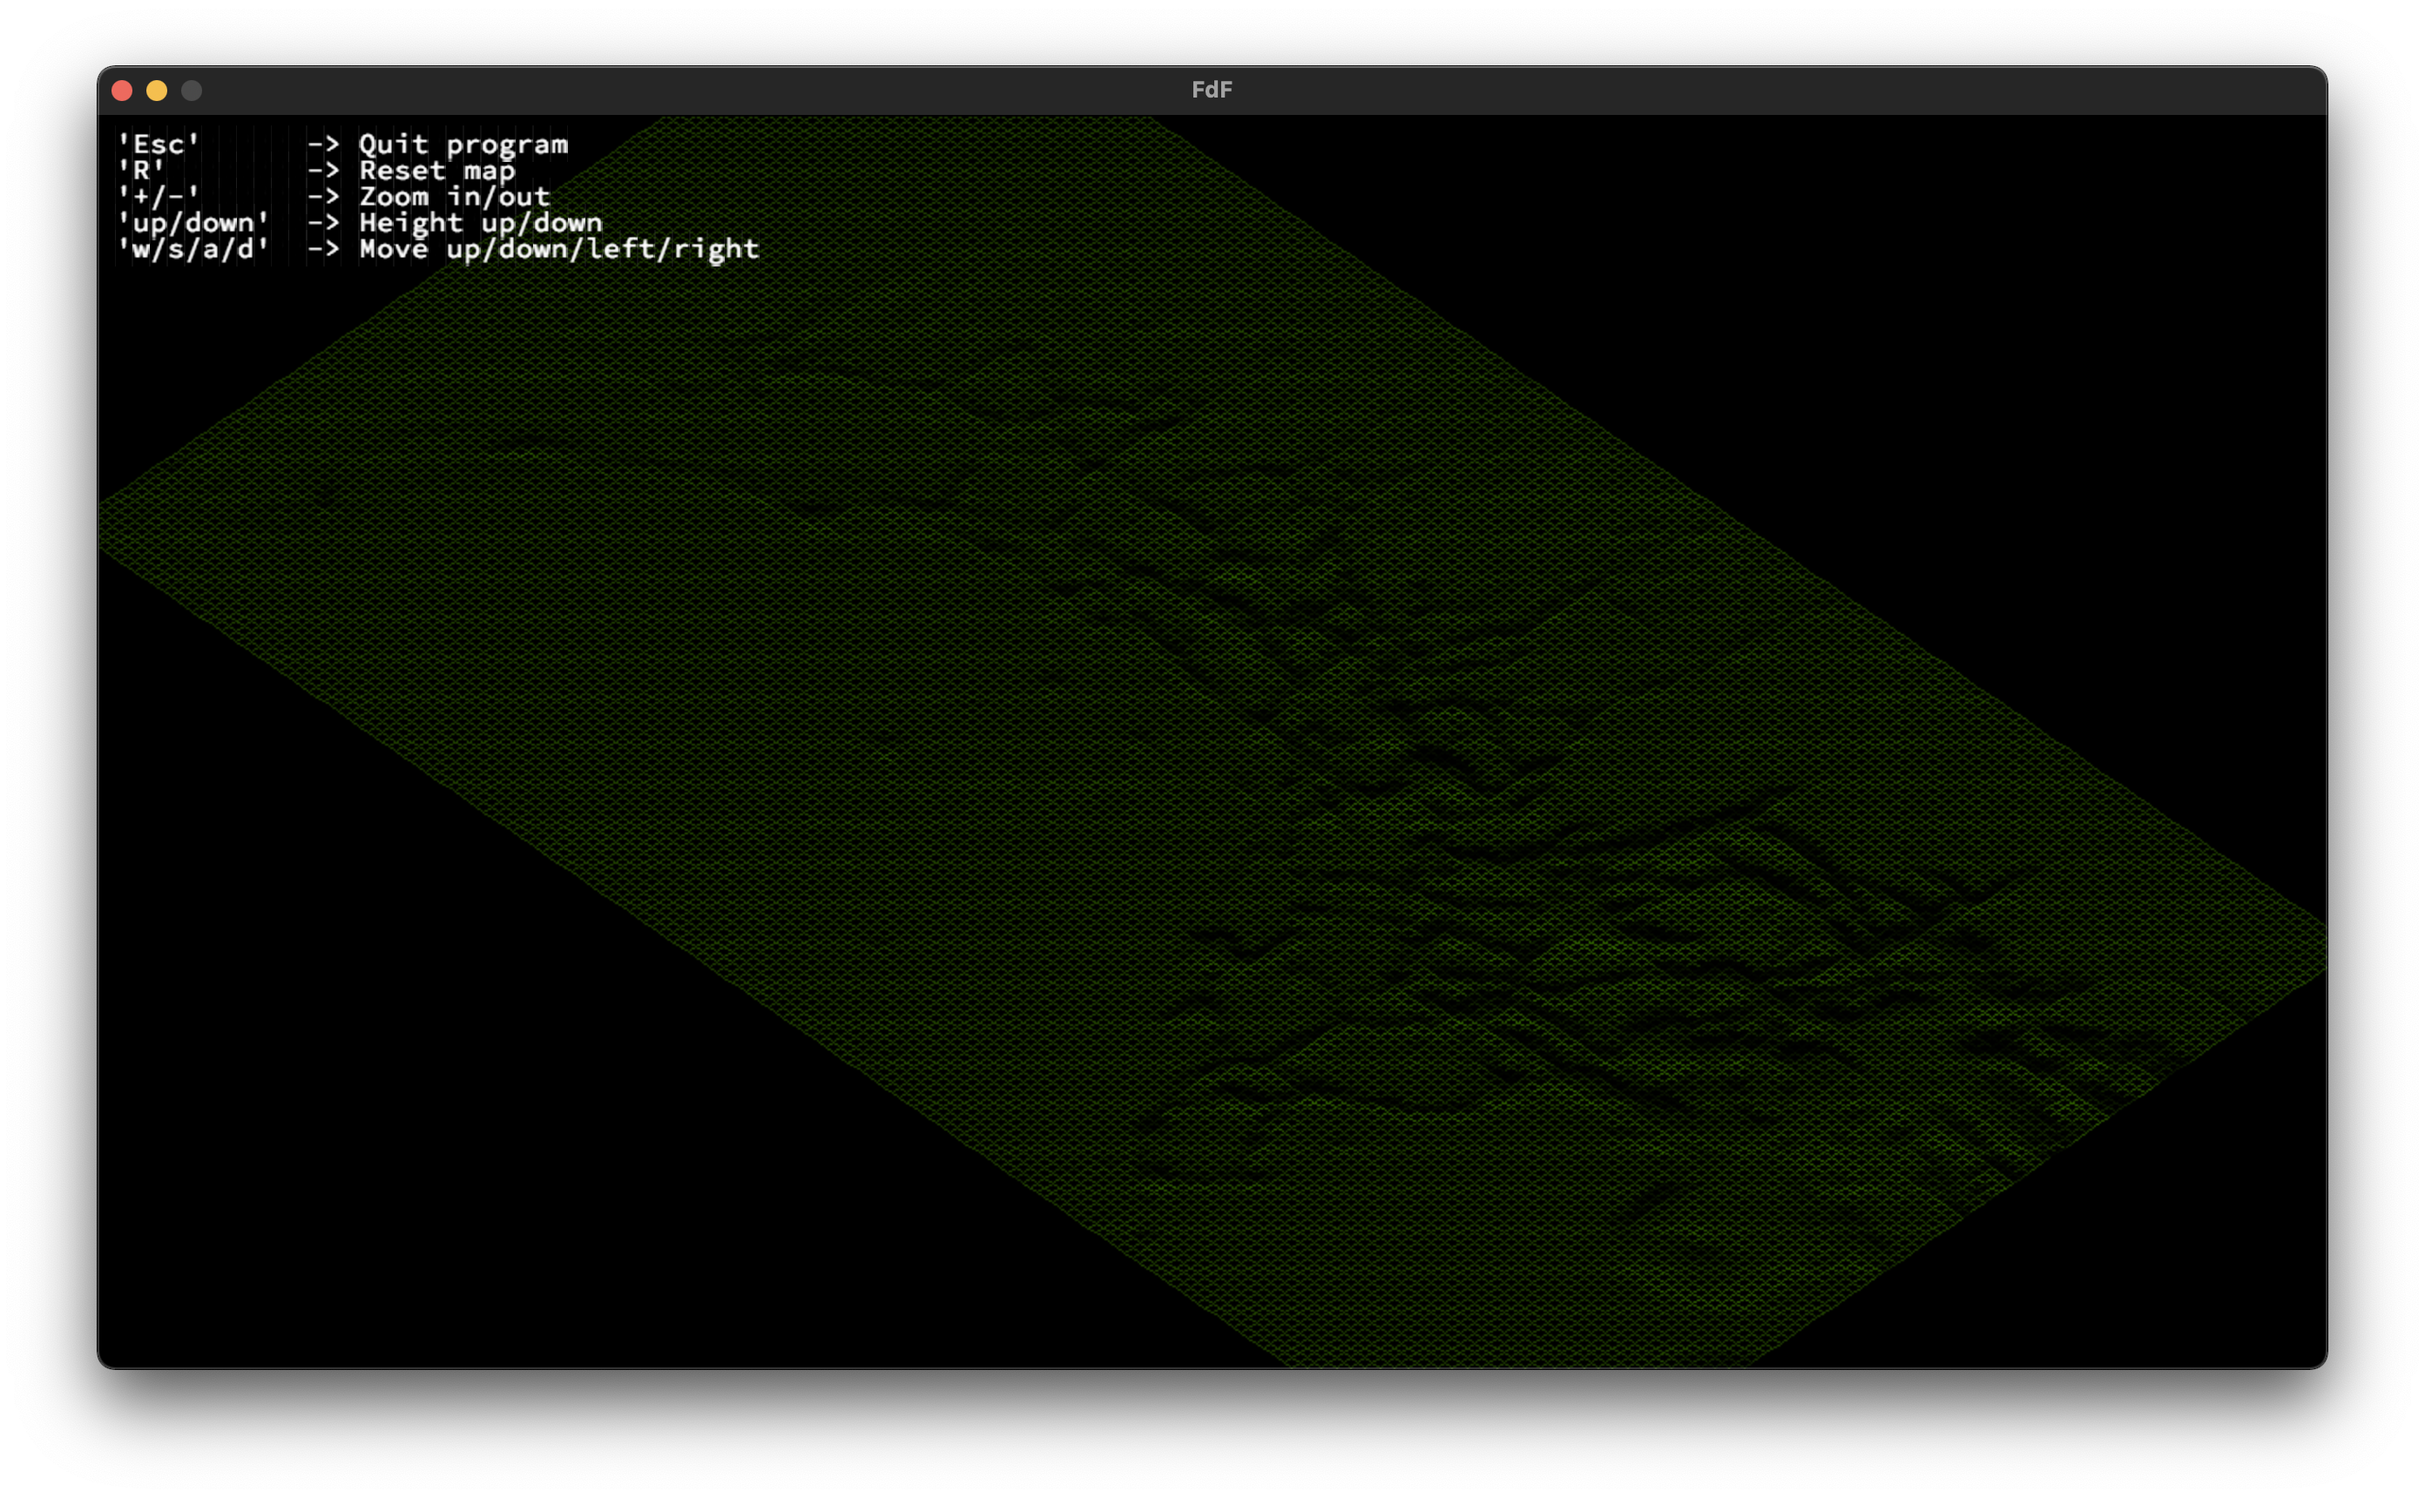
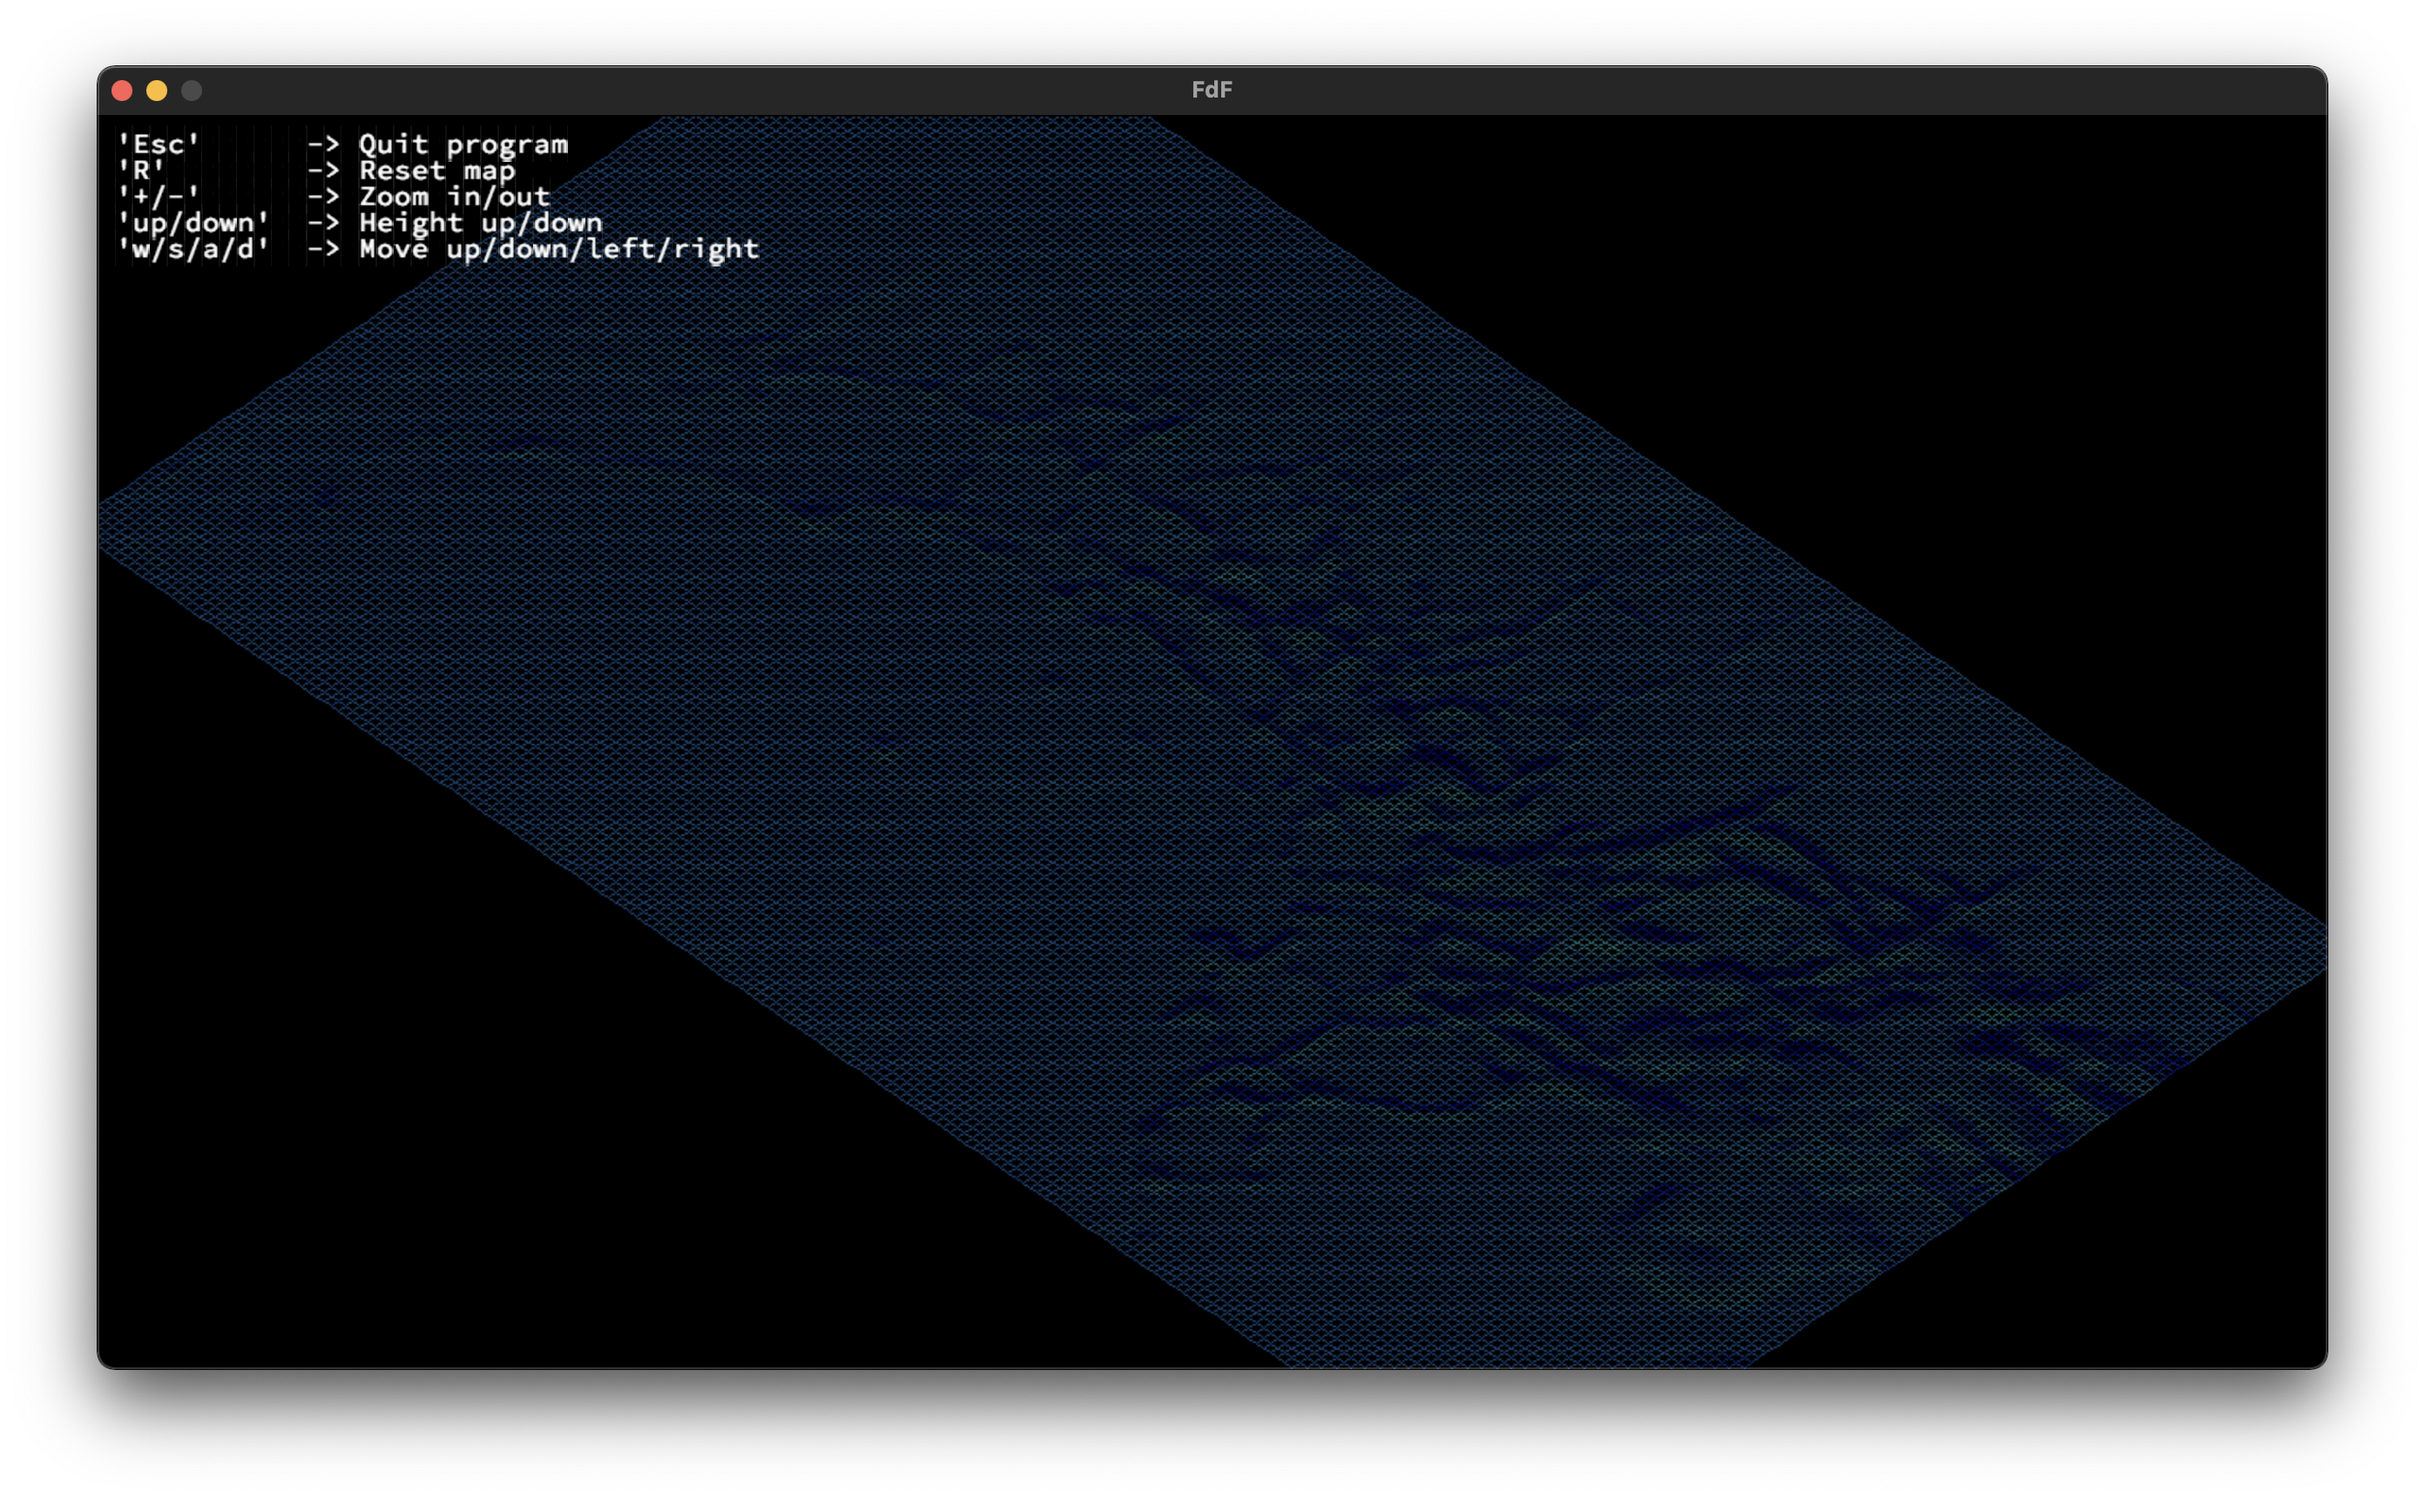
demo'

Changed region(s): [[0.0312, 0.0616, 0.9688, 0.9244]]

diff --git a/src/initialize_map.c b/src/initialize_map.c
@@ -6,7 +6,7 @@
 /*   By: julian <julian@student.42.fr>              +#+  +:+       +#+        */
 /*                                                +#+#+#+#+#+   +#+           */
 /*   Created: 2021/09/06 16:56:47 by jludt             #+#    #+#             */
-/*   Updated: 2022/01/02 17:54:19 by julian           ###   ########.fr       */
+/*   Updated: 2022/01/02 21:05:10 by julian           ###   ########.fr       */
 /*                                                                            */
 /* ************************************************************************** */
 
@@ -21,7 +21,7 @@ void	initialize_map(t_data *data)
 	data->y_translate = 0;
 	data->zoom = ((WINDOW_WIDTH / data->width) \
 				+ (WINDOW_HEIGHT / data->height)) / 3;
-	data->blue = 0x00;
+	data->blue = 0x6F;
 	data->green = 0x6F;
 	data->red = 0x6F;
 }
